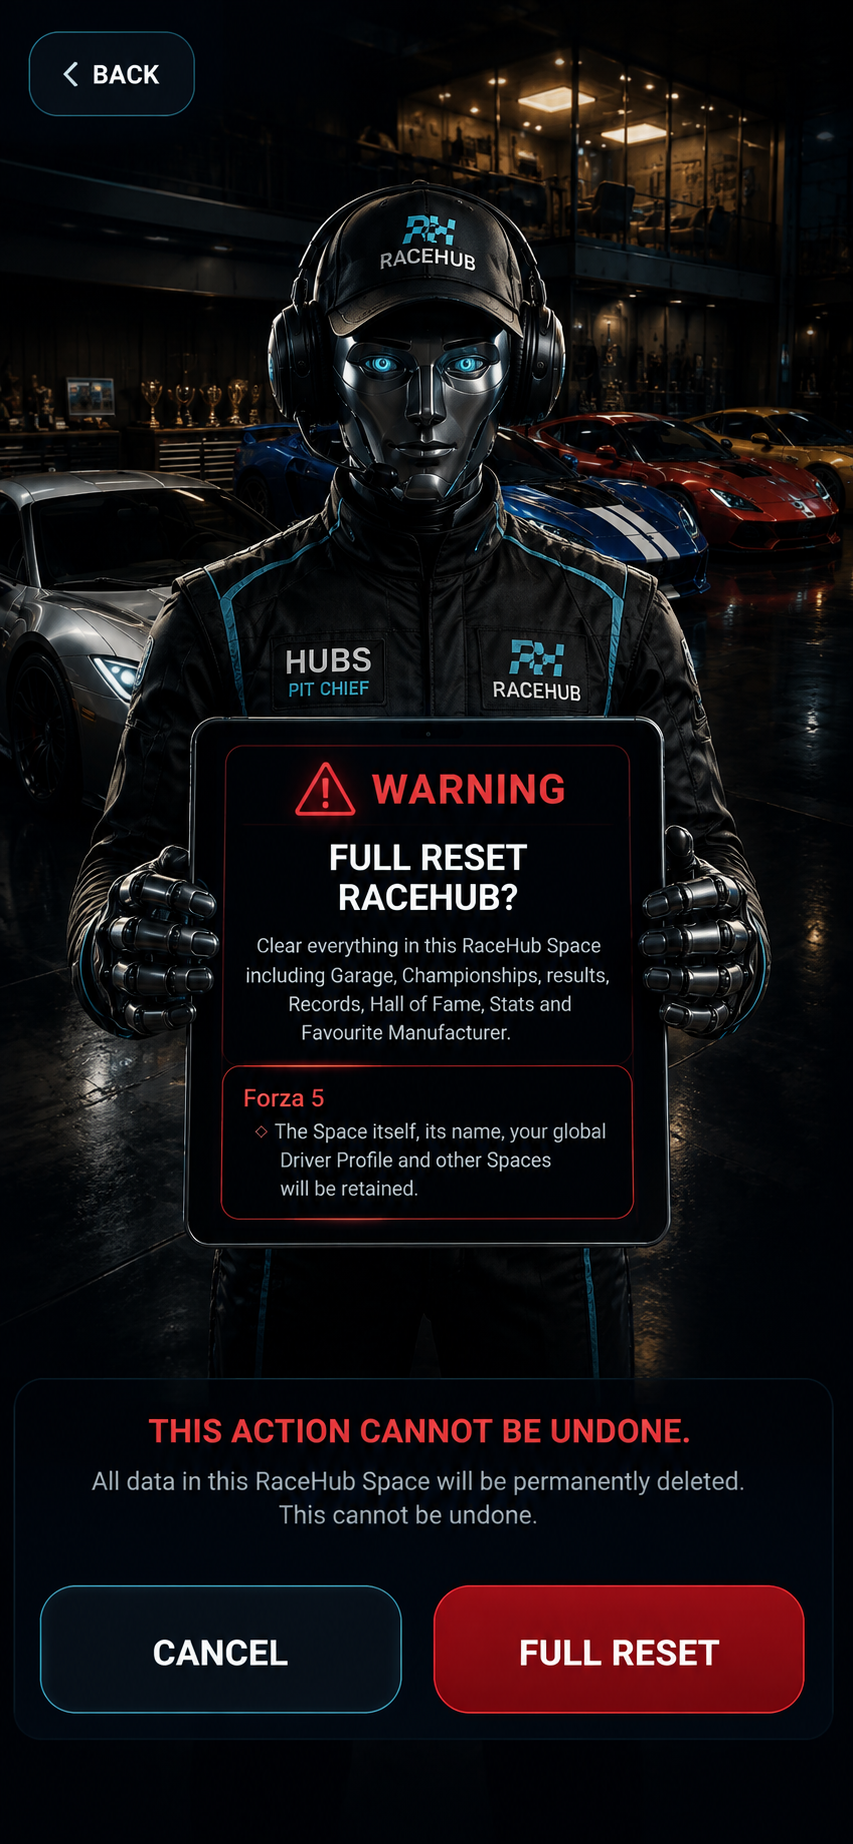
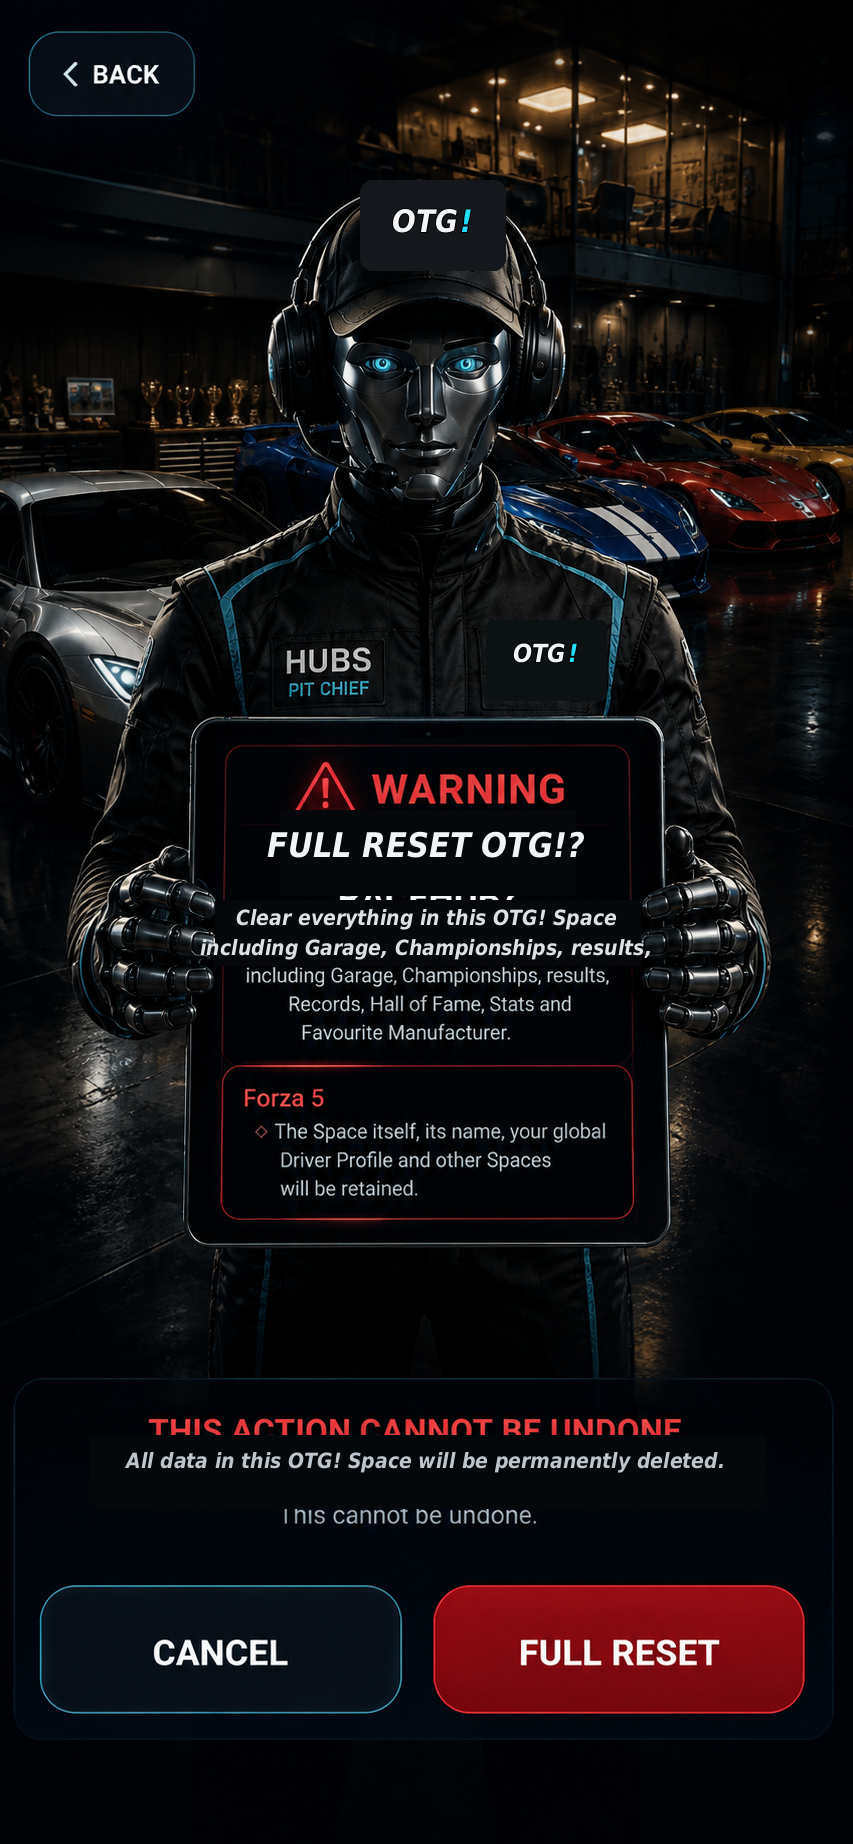
OTG v6.0.59 final rebrand cleanup

diff --git a/js/studio-final-v5808.js b/js/studio-final-v5808.js
@@ -344,7 +344,7 @@ function rhParseTime(v){v=String(v||'').trim();const m=v.match(/^(\d{1,2}):([0-5
 function rhFmtTime(v){const m=Math.floor(v/60),s=(v-m*60).toFixed(3).padStart(6,'0');return `${String(m).padStart(2,'0')}:${s}`}
 function rhHistoricalAverage(r,res){const runs=rhCurrentRuns();const prior=runs.filter(x=>x.id!==r.id&&x.status==='complete').flatMap(x=>(x.results||[]).filter(y=>y.roundName===res.roundName&&Number.isFinite(Number(y.time))));if(!prior.length)return null;const avg=prior.reduce((a,b)=>a+Number(b.time),0)/prior.length,diff=Number(res.time)-avg;return {avg,diff,count:prior.length}}
 function rhSaveResult(runId,carId,roundId){const r=rhCurrentRuns().find(x=>x.id===runId),v=rhParseTime($('rhTime')?.value),pos=Number($('rhPos')?.value)||null;if(!r||!isFinite(v)||v<=0){toast('Enter a valid time');return}const roundName=r.rounds.find(q=>q.id===roundId)?.name;const priorAll=rhCurrentRuns().flatMap(x=>x.results||[]).filter(x=>x.roundName===roundName);const runPrior=r.results.filter(x=>x.roundId===roundId);const championshipRecord=!runPrior.length||v<Math.min(...runPrior.map(x=>x.time));const allTime=!priorAll.length||v<Math.min(...priorAll.map(x=>x.time));r.results.push({id:rhId('result'),carId,roundId,roundName,time:v,position:pos,date:new Date().toISOString(),championshipRecord,allTime});if(!rhNextSlot(r)){r.status='complete';r.completedAt=new Date().toISOString()}rhSave();rhResultSummary(r,r.results.at(-1))}
-function rhResultSummary(r,res){const c=carById(res.carId),rounds=r.rounds||[],carDone=(r.results||[]).filter(x=>x.carId===res.carId).length,carPct=rounds.length?Math.round(carDone/rounds.length*100):0,carComplete=rounds.length>0&&carDone>=rounds.length,hist=rhHistoricalAverage(r,res);const avg=hist?`<div class="rhAverageCompareV1 ${hist.diff<0?'good':hist.diff>0?'bad':'even'}"><small>AVERAGE TIME</small><b>${rhFmtTime(hist.avg)}</b><strong>${hist.diff<0?'−':hist.diff>0?'+':'±'}${rhFmtTime(Math.abs(hist.diff))} ${hist.diff<0?'FASTER':hist.diff>0?'SLOWER':'ON AVERAGE'}</strong><span>Based on ${hist.count} previous comparable result${hist.count===1?'':'s'}</span></div>`:'';$('festival').innerHTML=`<div class="rhScene rhChampScene">${rhRunHeader('RESULTS SUMMARY',res.roundName,r.id)}</div><div class="rhContent"><section class="rhClipboard"><span>RESULT SAVED</span><h2>${esc(carName(c))}</h2><strong>${rhFmtTime(res.time)}</strong>${res.position?`<p>Position ${res.position}</p>`:''}<div class="rhRosettes">${res.championshipRecord?'<b>✹ Championship Record</b>':''}${res.allTime?'<b class="gold">✹ All-Time RH Record</b>':''}</div>${avg}<div class="rhResultCarProgressV1"><small>CHAMPIONSHIP PROGRESS</small><b>${carDone} OF ${rounds.length} ROUNDS COMPLETE</b><div><i style="width:${carPct}%"></i></div><strong>${carPct}%</strong></div>${(res.championshipRecord||res.allTime)?'<img class="rhHubs" src="assets/final/hubs.png" alt="Hubs celebrating">':''}<button class="btn" onclick="rhOpenRun('${r.id}')">${r.status==='complete'?'FINAL LEADERBOARD':carComplete?'RETURN TO CHAMPIONSHIP':'NEXT RACE'}</button></section></div>`}
+function rhResultSummary(r,res){const c=carById(res.carId),rounds=r.rounds||[],carDone=(r.results||[]).filter(x=>x.carId===res.carId).length,carPct=rounds.length?Math.round(carDone/rounds.length*100):0,carComplete=rounds.length>0&&carDone>=rounds.length,hist=rhHistoricalAverage(r,res);const avg=hist?`<div class="rhAverageCompareV1 ${hist.diff<0?'good':hist.diff>0?'bad':'even'}"><small>AVERAGE TIME</small><b>${rhFmtTime(hist.avg)}</b><strong>${hist.diff<0?'−':hist.diff>0?'+':'±'}${rhFmtTime(Math.abs(hist.diff))} ${hist.diff<0?'FASTER':hist.diff>0?'SLOWER':'ON AVERAGE'}</strong><span>Based on ${hist.count} previous comparable result${hist.count===1?'':'s'}</span></div>`:'';$('festival').innerHTML=`<div class="rhScene rhChampScene">${rhRunHeader('RESULTS SUMMARY',res.roundName,r.id)}</div><div class="rhContent"><section class="rhClipboard"><span>RESULT SAVED</span><h2>${esc(carName(c))}</h2><strong>${rhFmtTime(res.time)}</strong>${res.position?`<p>Position ${res.position}</p>`:''}<div class="rhRosettes">${res.championshipRecord?'<b>✹ Championship Record</b>':''}${res.allTime?'<b class="gold">✹ All-Time RH Record</b>':''}</div>${avg}<div class="rhResultCarProgressV1"><small>CHAMPIONSHIP PROGRESS</small><b>${carDone} OF ${rounds.length} ROUNDS COMPLETE</b><div><i style="width:${carPct}%"></i></div><strong>${carPct}%</strong></div>${(res.championshipRecord||res.allTime)?'<img class="rhHubs" src="assets/final/hubs.png?v=6059" alt="Hubs celebrating">':''}<button class="btn" onclick="rhOpenRun('${r.id}')">${r.status==='complete'?'FINAL LEADERBOARD':carComplete?'RETURN TO CHAMPIONSHIP':'NEXT RACE'}</button></section></div>`}
 function rhLeaderboard(r){const rows=r.entries.map(id=>{const rr=r.results.filter(x=>x.carId===id);return rr.length===r.rounds.length?{id,total:rr.reduce((a,b)=>a+b.time,0)}:null}).filter(Boolean).sort((a,b)=>a.total-b.total);return `<section class="rhSection"><h2>Final Leaderboard</h2>${rows.map((x,i)=>`<div class="rhLeaderRow"><b>${i+1}</b><span>${esc(carName(carById(x.id)))}</span><strong>${rhFmtTime(x.total)}</strong></div>`).join('')}</section>`}
 function rhRenderEvents(){
  const s=rhSpace(),active=s.customEvents.filter(e=>e.status!=='complete'),hasEvents=active.length;

diff --git a/js/studio-grand-tour-v6043.js b/js/studio-grand-tour-v6043.js
@@ -1,1 +1,1 @@
-(()=>{const safe=s=>esc(String(s??''));window.rhConfirm=function({title,copy,detail='',safeguard='',confirmLabel='CONFIRM',cancelLabel='CANCEL',danger=false,severity='',onConfirm=''}){document.getElementById('rhConfirmOverlay')?.remove();const sev=severity||(danger?'destructive':'cyan');const isResetScreen=/^(RESET RACING DATA\?|FULL RESET OTG!\?)$/i.test(String(title||'').trim());if(sev==='destructive'&&isResetScreen){const racing=/RESET RACING DATA/i.test(title);document.body.insertAdjacentHTML('beforeend',`<div id="rhConfirmOverlay" class="rhReset6040 ${racing?'racing6040':'full6040'}"><img class="rhResetArt6040" src="assets/final/hubs-reset-approved-v6040.png" alt="">${racing?`<div class="rhTabletMask6040"><div class="rhWarn6040">⚠ WARNING</div><h2>${safe(title)}</h2><p>${safe(copy)}</p>${safeguard?`<div class="rhKeep6040">◇ ${safe(safeguard)}</div>`:''}</div><div class="rhResetButtonVisual6040">${safe(confirmLabel)}</div>`:''}<button class="rhHit6040 rhBackHit6040" aria-label="Back" onclick="$('rhConfirmOverlay').remove()"></button><button class="rhHit6040 rhCancelHit6040" aria-label="${safe(cancelLabel)}" onclick="$('rhConfirmOverlay').remove()"></button><button class="rhHit6040 rhConfirmHit6040" aria-label="${safe(confirmLabel)}" onclick="$('rhConfirmOverlay').remove();${onConfirm}"></button></div>`);return;}document.body.insertAdjacentHTML('beforeend',`<div id="rhConfirmOverlay" class="rhOverlay"><div class="rhModal rhConfirmModal rhConfirmFinal ${sev}"><button class="rhModalX" onclick="$('rhConfirmOverlay').remove()">×</button><div class="rhConfirmIcon">${sev==='purple'?'★':sev==='caution'?'!':'↻'}</div><h2>${safe(title)}</h2><p>${safe(copy)}</p>${detail?`<div class="rhConfirmDetail">${safe(detail)}</div>`:''}${safeguard?`<div class="rhSafeguard">◇ ${safe(safeguard)}</div>`:''}<div class="rhModalActions"><button class="btn secondary" onclick="$('rhConfirmOverlay').remove()">${safe(cancelLabel)}</button><button class="btn ${danger?'dangerBtn':''}" onclick="$('rhConfirmOverlay').remove();${onConfirm}">${safe(confirmLabel)}</button></div></div></div>`);};})();
+(()=>{const safe=s=>esc(String(s??''));window.rhConfirm=function({title,copy,detail='',safeguard='',confirmLabel='CONFIRM',cancelLabel='CANCEL',danger=false,severity='',onConfirm=''}){document.getElementById('rhConfirmOverlay')?.remove();const sev=severity||(danger?'destructive':'cyan');const isResetScreen=/^(RESET RACING DATA\?|FULL RESET OTG!\?)$/i.test(String(title||'').trim());if(sev==='destructive'&&isResetScreen){const racing=/RESET RACING DATA/i.test(title);document.body.insertAdjacentHTML('beforeend',`<div id="rhConfirmOverlay" class="rhReset6040 ${racing?'racing6040':'full6040'}"><img class="rhResetArt6040" src="assets/final/hubs-reset-approved-v6040.png?v=6059" alt="">${racing?`<div class="rhTabletMask6040"><div class="rhWarn6040">⚠ WARNING</div><h2>${safe(title)}</h2><p>${safe(copy)}</p>${safeguard?`<div class="rhKeep6040">◇ ${safe(safeguard)}</div>`:''}</div><div class="rhResetButtonVisual6040">${safe(confirmLabel)}</div>`:''}<button class="rhHit6040 rhBackHit6040" aria-label="Back" onclick="$('rhConfirmOverlay').remove()"></button><button class="rhHit6040 rhCancelHit6040" aria-label="${safe(cancelLabel)}" onclick="$('rhConfirmOverlay').remove()"></button><button class="rhHit6040 rhConfirmHit6040" aria-label="${safe(confirmLabel)}" onclick="$('rhConfirmOverlay').remove();${onConfirm}"></button></div>`);return;}document.body.insertAdjacentHTML('beforeend',`<div id="rhConfirmOverlay" class="rhOverlay"><div class="rhModal rhConfirmModal rhConfirmFinal ${sev}"><button class="rhModalX" onclick="$('rhConfirmOverlay').remove()">×</button><div class="rhConfirmIcon">${sev==='destructive'?'!':sev==='purple'?'★':sev==='caution'?'!':'↻'}</div><h2>${safe(title)}</h2><p>${safe(copy)}</p>${detail?`<div class="rhConfirmDetail">${safe(detail)}</div>`:''}${safeguard?`<div class="rhSafeguard">◇ ${safe(safeguard)}</div>`:''}<div class="rhModalActions"><button class="btn secondary" onclick="$('rhConfirmOverlay').remove()">${safe(cancelLabel)}</button><button class="btn ${danger?'dangerBtn':''}" onclick="$('rhConfirmOverlay').remove();${onConfirm}">${safe(confirmLabel)}</button></div></div></div>`);};})();

diff --git a/js/studio-locked-ui-v5780.js b/js/studio-locked-ui-v5780.js
@@ -203,7 +203,7 @@ window.rhDeleteBackupFinal=function(id){const s=rhSpace();s.backups=(s.backups||
 window.rhAbout=function(){
  const s=rhSpace();show('more');q('more').innerHTML=`<div class="rhScene rhAboutScene"><div class="rhPageHead"><button class="rhBack" onclick="rhRenderSettings()">‹</button><div><h1>ABOUT OUT THE GARAGE!</h1><p>DRIVE • RECORD • IMPROVE</p></div></div></div><div class="rhContent rhConformance">
  <section class="rhAboutIntro"><h1>ABOUT OUT THE GARAGE!</h1><h3>DRIVE • RECORD • IMPROVE</h3><p>Out The Garage! is your personal racing record book — built to organise your Garage, create Championships, record results and preserve your racing history your way.</p><p>Whether you race for fun, for competition, or just for the love of driving, Out The Garage! keeps your racing history safe.</p></section>
- <section class="rhSection"><h2>OTG! INFORMATION</h2><div class="rhInfoRow"><span>App Version</span><b>v5.8.35</b></div><div class="rhInfoRow"><span>Data / Backup Version</span><b>v1.0.0</b></div><div class="rhInfoRow"><span>Current OTG! Space</span><b>${safe(s.name)}</b></div><div class="rhInfoRow"><span>Driver Profile (Global)</span><b>${safe(state.driverName||'Driver')}</b></div></section>
+ <section class="rhSection"><h2>OTG! INFORMATION</h2><div class="rhInfoRow"><span>App Version</span><b>v${document.querySelector('meta[name="racehub-version"]')?.content||'6.0.59'}</b></div><div class="rhInfoRow"><span>Data / Backup Version</span><b>v1.0.0</b></div><div class="rhInfoRow"><span>Current OTG! Space</span><b>${safe(s.name)}</b></div><div class="rhInfoRow"><span>Driver Profile (Global)</span><b>${safe(state.driverName||'Driver')}</b></div></section>
  <section class="rhSection"><h2>CREATED BY</h2><p>Andy Jones & ChatGPT</p><p class="small">Designed together from the ground up to make racing data personal, useful and enjoyable.</p></section>
  <section class="rhSection"><h2>LEGAL</h2><p>© 2026 OTG!. All rights reserved.</p><p class="small">OTG! is an independent product and is not affiliated with or endorsed by any vehicle manufacturer.</p></section></div>`;
 };
@@ -248,7 +248,7 @@ window.rhRenderSettings=function(){const s=rhSpace(),makes=rhAllManufacturerList
 <section class="rhSection rhSettingPanel"><h2>OTG! SPACES</h2><button class="rhSettingRow" onclick="rhManageSpaces()"><b>Manage OTG! Spaces</b><span>Current Space: ${safe(s.name)} ›</span></button></section>
 <section class="rhSection rhSettingPanel"><h2>DATA</h2><button class="rhSettingRow" onclick="rhDataBackups()"><b>Backup / Restore</b><span>Manage saved backups ›</span></button></section>
 <section class="rhDangerFinal"><h2>⚠ DANGER ZONE</h2><p>These actions affect the current OTG! Space only.</p><div class="rhDangerAction"><div><b>RESET RACING DATA</b><span>Clear Championships, runs, results, Records, Hall of Fame and Stats.</span><em>Garage will be retained.</em></div><button class="btn dangerBtn" onclick="rhResetConfirm()">RESET RACING DATA</button></div><div class="rhDangerAction"><div><b>FULL RESET OTG!</b><span>Clear everything in this Space including Garage and Favourite Manufacturer.</span><em>The Space, its name and global Driver Profile are retained.</em></div><button class="btn dangerBtn" onclick="rhFullResetConfirm()">FULL RESET</button></div></section>
-<section class="rhSection rhSettingPanel"><button class="rhSettingRow" onclick="rhAbout()"><b>ABOUT OUT THE GARAGE!</b><span>OTG! v5.7.80 • ›</span></button></section></div>`};
+<section class="rhSection rhSettingPanel"><button class="rhSettingRow" onclick="rhAbout()"><b>ABOUT OUT THE GARAGE!</b><span class="rhAboutTileMeta">OTG! v${document.querySelector('meta[name="racehub-version"]')?.content||'6.0.59'}<em>›</em></span></button></section></div>`};
 
 
 

diff --git a/service-worker-v6059.js b/service-worker-v6059.js
@@ -1,0 +1,27 @@
+const CACHE_NAME='racehub-v6.0.59-final-rebrand-cleanup';
+const ASSETS=[
+  './assets/final/hubs.png?v=6059',
+  './assets/final/hubs-reset-approved-v6040.png?v=6059',
+  './assets/final/hubs-pit-chief-v5829.png?v=6059',
+  './assets/final/hall-of-fame-background-otg-v6059.png',
+  './assets/final/festival-approved-scene-v6058-neutral.png',
+  './assets/final/dashboard-otg-neutral-v6056.png',
+  './assets/brand/otg-approved-painted-mark-v6052.png',
+  './style-v6059.css?v=6059',
+  './','./index.html','./style-v595.css?v=6020','./manifest.webmanifest?v=6000','./favicon.png',
+  './js/seed-data.js?v=5799','./js/core.js?v=6020','./js/race-director.js?v=5799','./js/views.js?v=5799',
+  './js/celebrations.js?v=5799','./js/garage.js?v=5799','./js/control-centre.js?v=5799',
+  './js/studio-final-v5808.js?v=6059','./js/studio-locked-ui-v5780.js?v=5799','./js/studio-grand-tour-v6043.js?v=6044','./js/studio-polish-v5782.js?v=5799',
+  './js/studio-v6-garage-foundation-v600.js?v=6020','./js/studio-release-v595.js?v=6020','./js/studio-enter-result-v5803.js?v=5803','./js/studio-result-summary-v5837.js?v=5837',
+  './js/studio-race-flow-v5809.js?v=5829','./js/bootstrap-v600.js?v=6059','./js/studio-race-end-v5837.js?v=5837',
+  './js/studio-final-standings-v5828.js?v=6035','./js/studio-records-v5830.js?v=6035','./js/studio-car-complete-v5832.js?v=5832',
+  './js/studio-champ-overview-v5835.js?v=5835','./js/studio-beta-feedback-v595.js?v=5918','./js/studio-v6-advanced-timing-v6015.js?v=6020','./js/studio-v6-race-notes-v6017.js?v=6020','./assets/final/championship-in-progress-aerial-v5834.png?v=5834',
+  './assets/final/final-standings-face-on-ui-ready-v5828.png?v=5828','./assets/brand/otg-mark-painted-wall.svg',
+  './assets/final/hubs-pit-chief-v5829.png?v=5829','./assets/final/hubs-reset-approved-v6040.png','./assets/final/enter-result-side-finish-v5803.png','./assets/final/result-summary-podium-v5804.png',
+  './assets/final/trophy-festival.png','./assets/final/trophy-manufacturer.png','./assets/final/trophy-era.png','./assets/final/trophy-favourite.png',
+  './style-v6020.css?v=6020','./style-v6031.css?v=6031','./style-v6021.css?v=6021','./style-v6022.css?v=6032','./style-v6023.css?v=6023','./style-v6024.css?v=6024','./style-v6026.css?v=6026','./style-v6033.css?v=6033','./style-v6035.css?v=6035','./style-v6040.css?v=6040','./js/studio-v6-league-foundation-v6018.js?v=6020','./js/studio-v6-league-stage9b-v6020.js?v=6020','./js/studio-v6-league-stage9c-v6022.js?v=6022','./js/studio-v6-league-stage9d-v6023.js?v=6023','./js/studio-v6-league-stage9d-polish-v6024.js?v=6024','./assets/final/league-organiser-control-room-v6018.png','./icons/icon-v5765-192.png','./icons/icon-v5765-512.png'
+];
+self.addEventListener('install',e=>{e.waitUntil(caches.open(CACHE_NAME).then(c=>c.addAll(ASSETS)));self.skipWaiting();});
+self.addEventListener('activate',e=>{e.waitUntil(caches.keys().then(keys=>Promise.all(keys.filter(k=>k.startsWith('racehub-')&&k!==CACHE_NAME).map(k=>caches.delete(k)))));self.clients.claim();});
+self.addEventListener('fetch',e=>{if(e.request.mode==='navigate'){e.respondWith(fetch(e.request,{cache:'no-store'}).catch(()=>caches.match('./index.html')));return;}e.respondWith(fetch(e.request,{cache:'no-store'}).then(r=>{const copy=r.clone();caches.open(CACHE_NAME).then(c=>c.put(e.request,copy)).catch(()=>{});return r;}).catch(()=>caches.match(e.request)));});
+self.addEventListener('message',e=>{if(e.data&&e.data.type==='SKIP_WAITING')self.skipWaiting();});

diff --git a/style-v6059.css b/style-v6059.css
@@ -1,0 +1,41 @@
+/* OTG v6.0.56 dashboard clean rebuild — final override only */
+.rhHomeHeroV4{background:linear-gradient(180deg,rgba(0,4,8,0) 0%,rgba(0,4,8,0) 58%,rgba(2,5,8,.16) 82%,#020508 100%),url('assets/final/dashboard-otg-neutral-v6056.png') center center/cover no-repeat!important;}
+.rhHomeLogoV4{position:absolute!important;z-index:5!important;left:50%!important;transform:translateX(-50%)!important;width:min(78vw,340px)!important;height:auto!important;max-height:none!important;object-fit:contain!important;bottom:8px!important;opacity:1!important;filter:brightness(1.38) contrast(1.08) drop-shadow(0 7px 18px rgba(0,0,0,.78)) drop-shadow(0 0 10px rgba(32,223,255,.12))!important;}
+.rhHomeWelcomeV4{z-index:6!important;}
+.splash .splashInner{width:min(660px,94vw)!important;}
+.splash .splashBrandNew{display:block!important;width:min(560px,88vw)!important;max-width:none!important;height:auto!important;margin:0 auto!important;filter:brightness(1.12) drop-shadow(0 0 24px rgba(32,223,255,.28))!important;}
+@media(max-width:390px){.rhHomeLogoV4{width:min(80vw,318px)!important;bottom:6px!important;}}
+@media(max-height:780px){.rhHomeLogoV4{width:min(73vw,300px)!important;bottom:5px!important;}}
+@media(max-width:520px){.splash .splashInner{width:96vw!important}.splash .splashBrandNew{width:min(430px,90vw)!important}}
+
+/* OTG! v6.0.57 — Festival building branding cleanup ONLY. */
+.rhFestivalHeroV1{
+  background:
+    linear-gradient(180deg,rgba(0,6,12,.02) 0%,rgba(0,6,12,.02) 60%,rgba(2,7,12,.18) 82%,#02070c 100%),
+    url('assets/final/festival-approved-scene-v6057-neutral.png') center center/cover no-repeat!important;
+}
+
+
+/* OTG! v6.0.59 final rebrand cleanup */
+.rhHofHeroV1{
+  background:#0c1012 url('assets/final/hall-of-fame-background-otg-v6059.png')
+  center center/100% 100% no-repeat!important;
+}
+.rhSettingRow{
+  display:grid!important;
+  grid-template-columns:minmax(0,1fr) auto!important;
+  align-items:center!important;
+  column-gap:14px!important;
+}
+.rhSettingRow .rhAboutTileMeta{
+  display:inline-flex!important;
+  align-items:center!important;
+  gap:8px!important;
+  white-space:nowrap!important;
+  flex-wrap:nowrap!important;
+}
+.rhSettingRow .rhAboutTileMeta em{
+  margin:0!important;
+  display:inline!important;
+  font-style:normal!important;
+}

diff --git a/index.html b/index.html
@@ -10,7 +10,7 @@
 <link rel="manifest" href="manifest.webmanifest?v=6000">
 <link rel="apple-touch-icon" href="icons/icon-v5765-192.png?v=5766">
 <title>Out The Garage!</title>
-<meta name="racehub-version" content="6.0.58">
+<meta name="racehub-version" content="6.0.59">
 <link rel="stylesheet" href="style-v595.css?v=6018">
 <link rel="stylesheet" href="style-v6020.css?v=6020">
 <link rel="stylesheet" href="style-v6021.css?v=6021">
@@ -23,7 +23,7 @@
 <link rel="stylesheet" href="style-v6034.css?v=6034">
 <link rel="stylesheet" href="style-v6035.css?v=6035">
 <link rel="stylesheet" href="style-v6040.css?v=6040">
-<link rel="stylesheet" href="style-v6057.css?v=6058">
+<link rel="stylesheet" href="style-v6059.css?v=6059">
 </head>
 <body>
 <div class="splash"><div class="splashInner"><img class="splashBrand splashBrandNew" src="assets/brand/otg-approved-painted-mark-v6052.png" alt="OTG!"></div></div>
@@ -53,17 +53,17 @@
 <script src="js/celebrations.js?v=5799"></script>
 <script src="js/garage.js?v=5799"></script>
 <script src="js/control-centre.js?v=5799"></script>
-<script src="js/studio-final-v5808.js?v=6058"></script>
-<script src="js/studio-locked-ui-v5780.js?v=5799"></script>
+<script src="js/studio-final-v5808.js?v=6059"></script>
+<script src="js/studio-locked-ui-v5780.js?v=6059?v=5799"></script>
 <script src="js/studio-polish-v5782.js?v=5799"></script>
 <script src="js/studio-v6-garage-foundation-v600.js?v=6017"></script>
 <script src="js/studio-release-v595.js?v=6017"></script>
 <script src="js/studio-enter-result-v5803.js?v=5803"></script>
 <script src="js/studio-result-summary-v5837.js?v=5837"></script>
 <script src="js/studio-race-flow-v5809.js?v=5829"></script>
-<script src="js/bootstrap-v600.js?v=6058"></script>
-<script src="js/studio-grand-tour-v6043.js?v=6044"></script>
-<script src="js/studio-race-end-v5837.js?v=5837"></script>
+<script src="js/bootstrap-v600.js?v=6059"></script>
+<script src="js/studio-grand-tour-v6043.js?v=6059?v=6044"></script>
+<script src="js/studio-race-end-v5837.js?v=6059?v=5837"></script>
 <script src="js/studio-final-standings-v5828.js?v=6034"></script>
 <script src="js/studio-records-v5830.js?v=6034"></script>
 <script src="js/studio-car-complete-v5832.js?v=5832"></script>

diff --git a/js/studio-race-end-v5837.js b/js/studio-race-end-v5837.js
@@ -91,7 +91,7 @@
       <button class="rhHubs29Back" id="rhHubs29Back" aria-label="Back">‹</button>
       <header class="rhHubs29Header"><h1>HOLD ON...</h1><p>HUBS HAS SOME NEWS</p></header>
       <main class="rhHubs29Main">
-        <section class="rhHubs29Character"><img src="assets/final/hubs-pit-chief-v5829.png?v=5829" alt="Hubs, OTG! Pit Chief"></section>
+        <section class="rhHubs29Character"><img src="assets/final/hubs-pit-chief-v5829.png?v=6059" alt="Hubs, OTG! Pit Chief"></section>
         <section class="rhHubs29Details">
           ${recordCards(res,kind)}
           <div class="rhHubs29Times"><small>YOUR NEW BEST TIME</small><strong>${fmt(res.time)}</strong>${previous!=null?`<small>PREVIOUS BEST</small><b>${fmt(previous)}</b><small>IMPROVEMENT</small><em>−${fmt(improvement)}</em>`:''}</div>

diff --git a/js/bootstrap-v600.js b/js/bootstrap-v600.js
@@ -2,4 +2,4 @@
 state=rhLoad();
 rhSync();
 if(state&&!state.onboarded){window.rhStartOnboardingIfNeeded?.();}else{show('home');}
-if('serviceWorker' in navigator){window.addEventListener('load',()=>navigator.serviceWorker.register('./service-worker-v6058.js',{updateViaCache:'none'}).catch(()=>{}));}
+if('serviceWorker' in navigator){window.addEventListener('load',()=>navigator.serviceWorker.register('./service-worker-v6059.js',{updateViaCache:'none'}).catch(()=>{}));}
